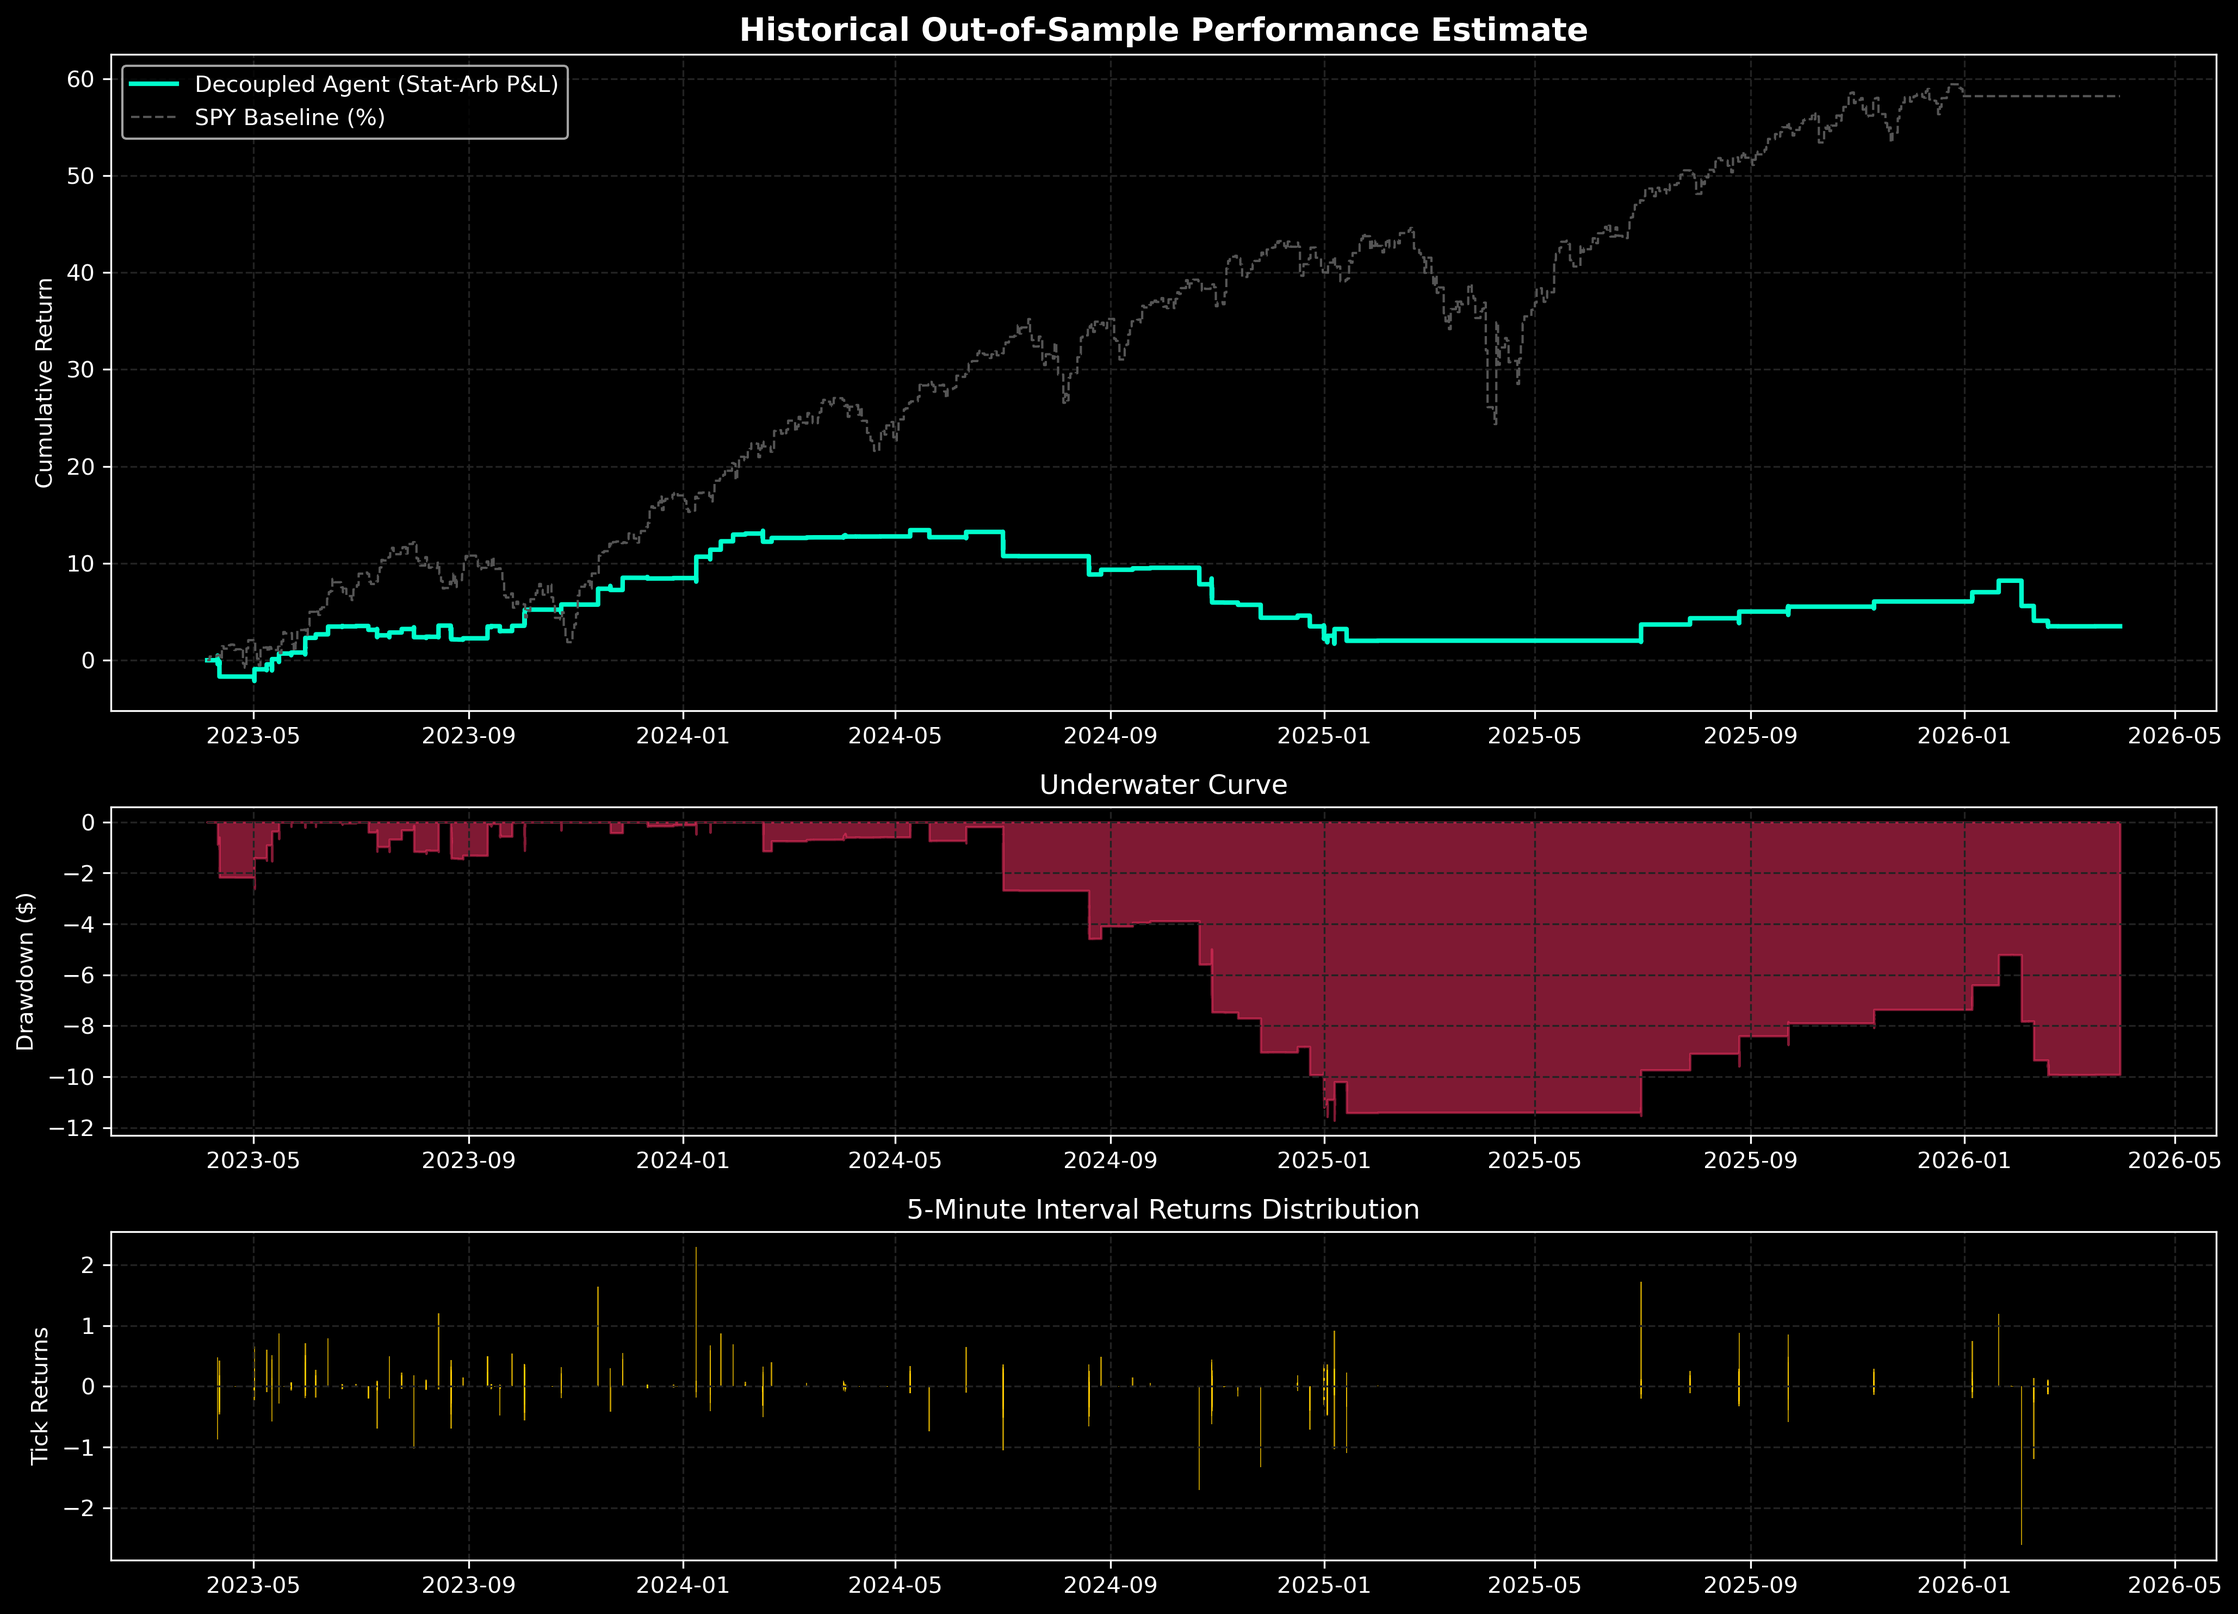
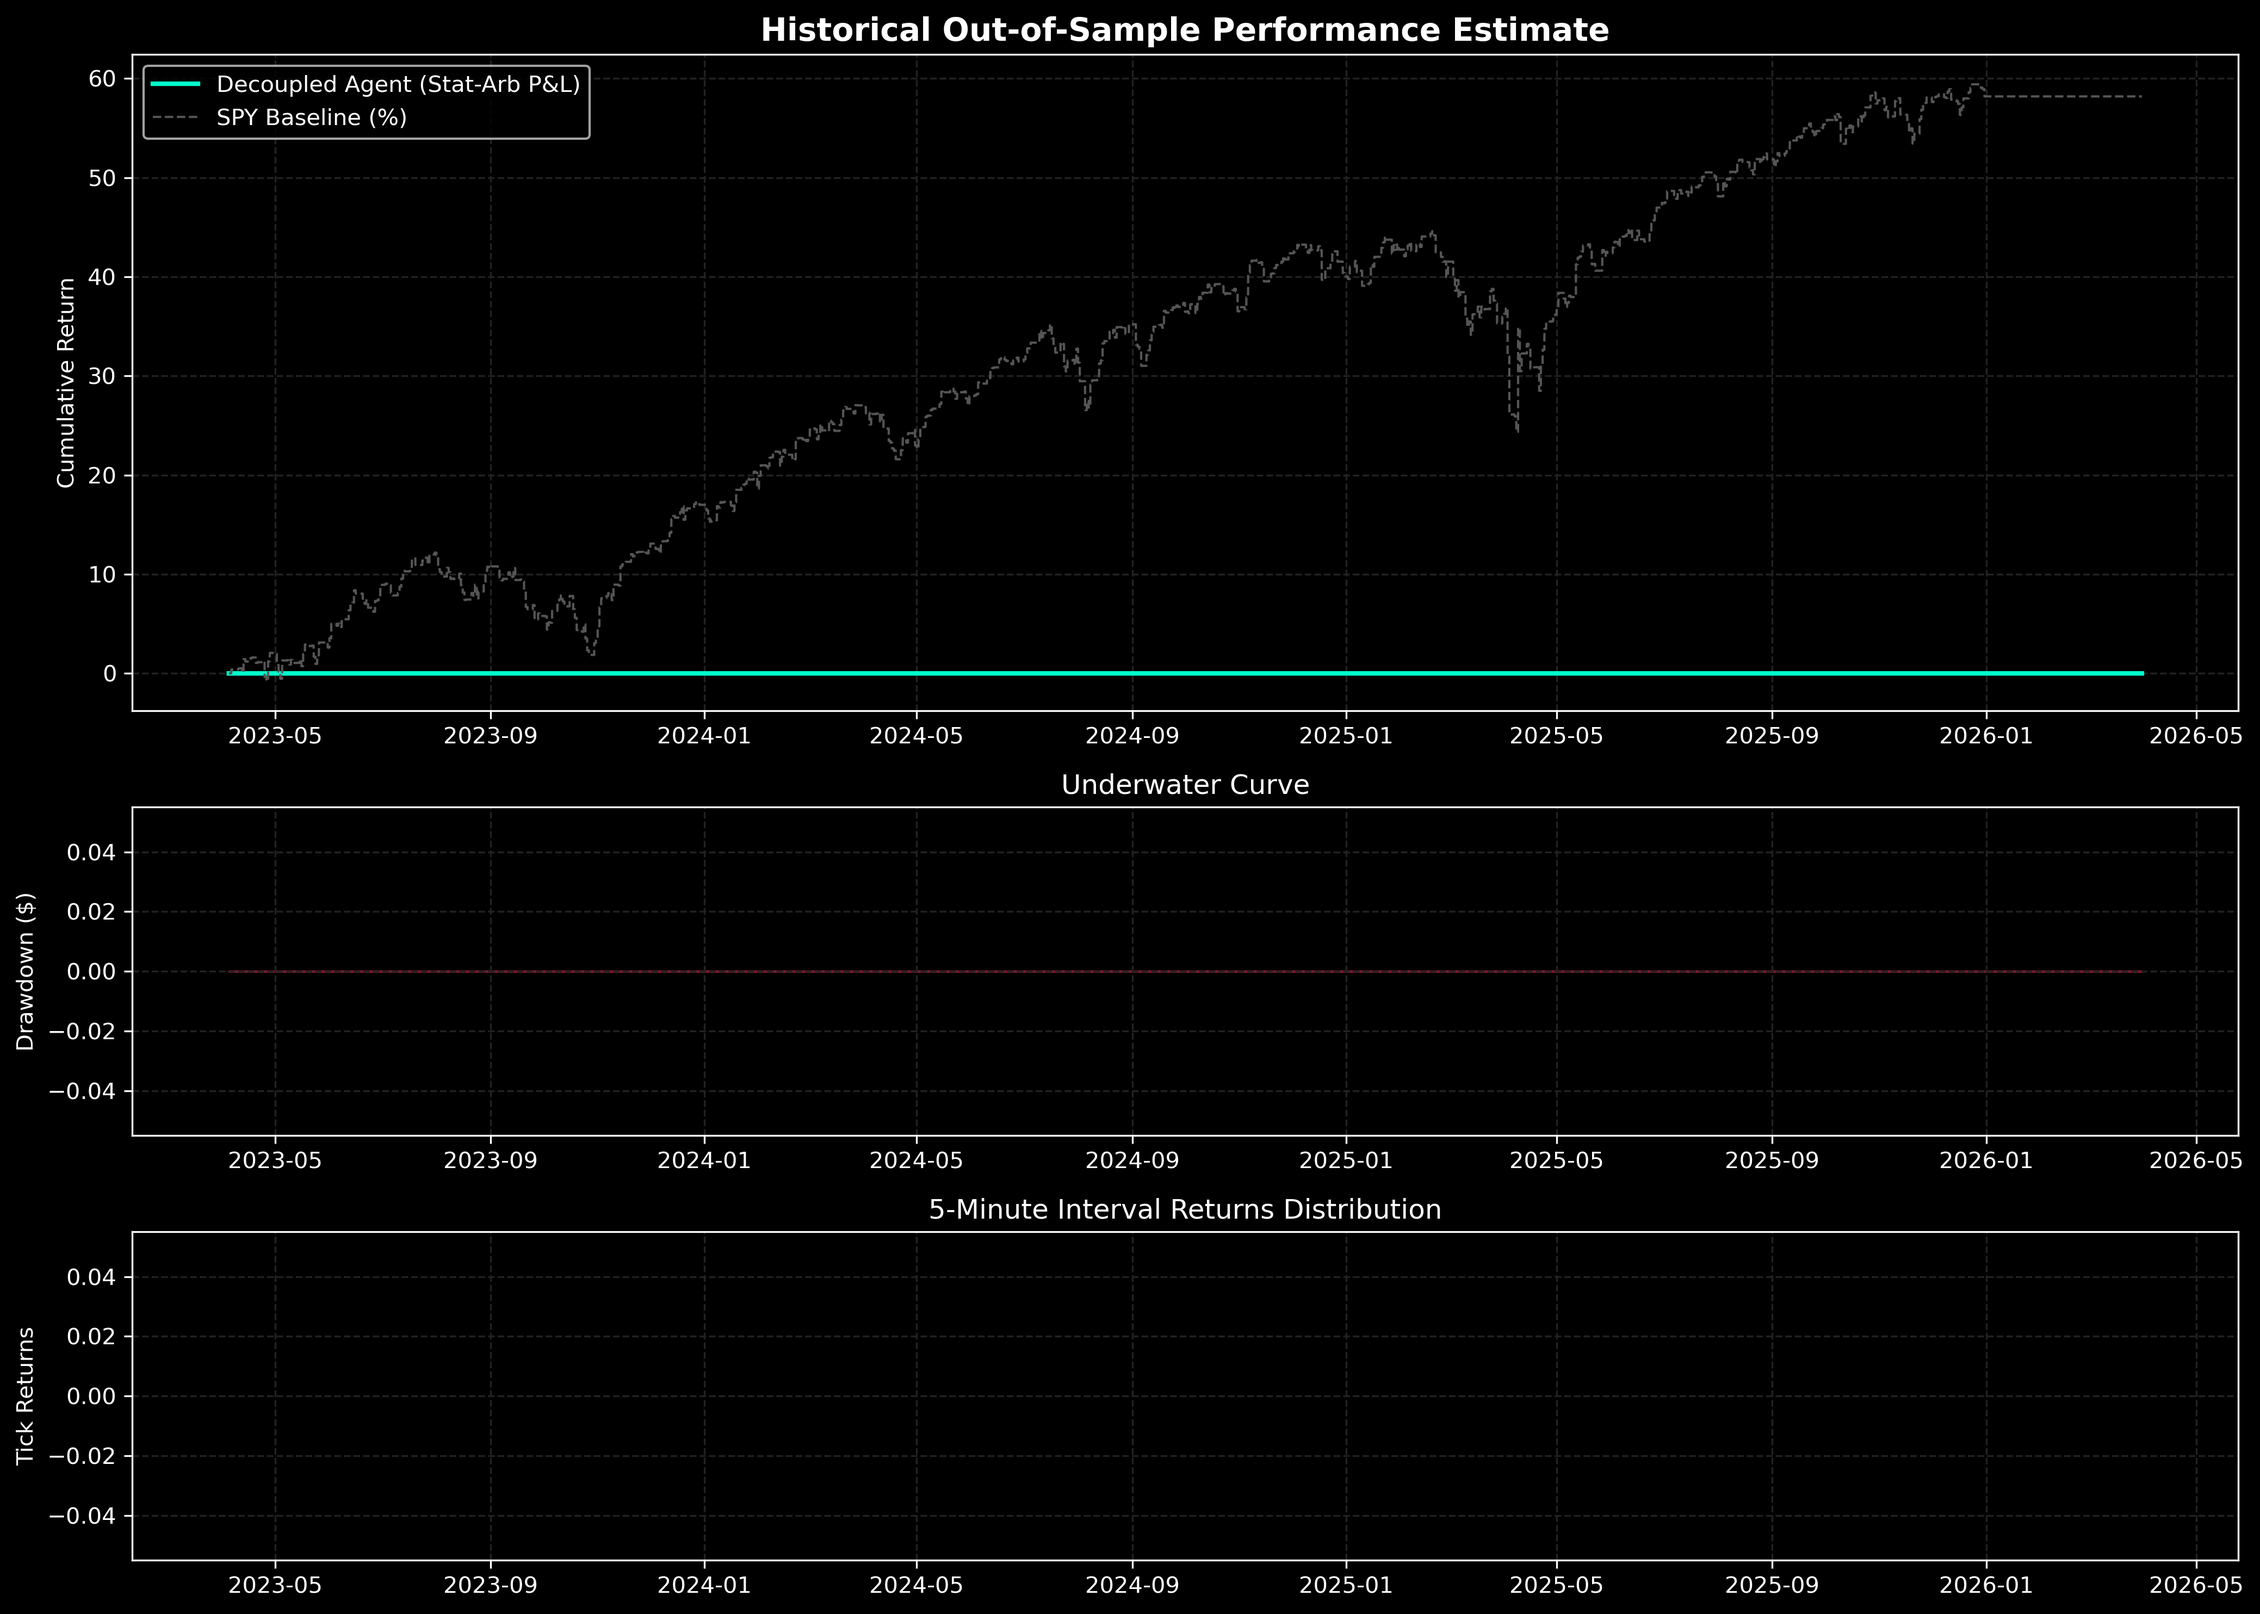
finding combo with monte carlo simulations to max roMD

diff --git a/backtesting/backtest_simulator.py b/backtesting/backtest_simulator.py
@@ -126,16 +126,23 @@ class VectorizedBacktester:
             half_life = params.get('half_life', 1.0)
             allocation = params.get('capital_allocation', 0.0)
             
+            # X-RAY 1: Allocation Check
             if allocation <= 0:
+                print(f"[WARNING] Skipping {spread_name}: Capital allocation is {allocation}")
                 continue
                 
             # A. Calculate Synthetic Spread
             spread_val = pd.Series(0.0, index=df.index)
             for ticker, w in weights.items():
-                if ticker in df.columns:
+                price_col = f'{ticker}_price'
+                if price_col in df.columns:
+                    spread_val += df[price_col] * w
+                elif ticker in df.columns:
                     spread_val += df[ticker] * w
                     
+            # X-RAY 2: Column Match Check
             if spread_val.eq(0).all():
+                print(f"[WARNING] Skipping {spread_name}: Spread value is flat $0.00. Check Parquet column names.")
                 continue
                     
             # B. THE ENGINE: Calculate Z-Scores (UPGRADED TO EWMA)
@@ -177,9 +184,8 @@ class VectorizedBacktester:
                 win_probs = self.meta_labeler.predict(dmatrix)
                 
                 # 3. Filter base signals SAFELY without shrinking the array length
-                # Strict Confidence Thresholding (AFML Chapter 10)
-                # The model must have 65% conviction to authorize capital deployment
-                meta_mask = pd.Series(win_probs > 0.65, index=valid_idx)
+                # Strict Confidence Thresholding, force the model to only take trades with 55% conviction or higher
+                meta_mask = pd.Series(win_probs > 0.55, index=valid_idx)
                 
                 # Create a blank full-length series, then map the approved signals into it
                 filtered_signals = pd.Series(0, index=df.index)
@@ -204,7 +210,6 @@ class VectorizedBacktester:
             trade_size_multiplier = 0.0 
             
             # Define a 30-day warm-up period to completely bypass early data artifacts
-            # 78 5-min bars per day * 30 days = 2340 bars
             WARMUP_BARS = 2340 
             
             for i in range(1, len(df)):
@@ -218,7 +223,6 @@ class VectorizedBacktester:
                 if in_position == 0 and i > WARMUP_BARS:
                     
                     # Microstructure Time Filter
-                    # Forbid new entries during the chaotic open (9:30-9:45) and close (15:45-16:00)
                     is_safe_time = (current_time >= pd.Timestamp("09:45").time()) and \
                                    (current_time <= pd.Timestamp("15:45").time())
                     
@@ -250,11 +254,8 @@ class VectorizedBacktester:
                     bars_held = i - entry_idx
                     
                     if prev_price != 0:
-                        # Volatility Scaling based on High-Conviction Edge
-                        LEVERAGE_SCALAR = 20.0 
-                        active_capital = allocation * LEVERAGE_SCALAR
-                        
-                        # Apply true dollar-neutral leverage to the price action
+                        LEVERAGE_SCALAR = 20.0
+                        active_capital = allocation * trade_size_multiplier * LEVERAGE_SCALAR
                         tick_ret = (current_price - prev_price) * in_position * active_capital
                     else:
                         tick_ret = 0
@@ -267,9 +268,7 @@ class VectorizedBacktester:
                         trade_return = 0
                         
                     # Barrier Skew Optimization [2, 1]
-                    # Cut losses strictly at 1 standard deviation.
-                    # Let mean-reverting winners run to 2 standard deviations.
-                    profit_take_threshold = current_vol * 2
+                    profit_take_threshold = current_vol * 2.0
                     stop_loss_threshold = -(current_vol * 1.0)
                     
                     hit_pt = trade_return >= profit_take_threshold
@@ -277,8 +276,6 @@ class VectorizedBacktester:
                     hit_time = bars_held >= 120
                     
                     # Mean Reversion Early Exit
-                    # If long (Z < -2), exit when Z crosses above 0
-                    # If short (Z > 2), exit when Z crosses below 0
                     hit_mean_reversion = False
                     if in_position == 1 and current_z >= 0:
                         hit_mean_reversion = True
@@ -288,8 +285,9 @@ class VectorizedBacktester:
                     # Exit the trade if any barrier or mean reversion is touched
                     if hit_pt or hit_sl or hit_time or hit_mean_reversion:
                         
-                        # Reality Check: Exit Friction
-                        # Deduct 0.05% spread crossing penalty
+                        # --- REALITY CHECK: EXIT FRICTION ---
+                        LEVERAGE_SCALAR = 20.0
+                        active_capital = allocation * trade_size_multiplier * LEVERAGE_SCALAR
                         exit_friction_cost = active_capital * 0.0005
                         portfolio_returns.iloc[i] -= exit_friction_cost
                         
